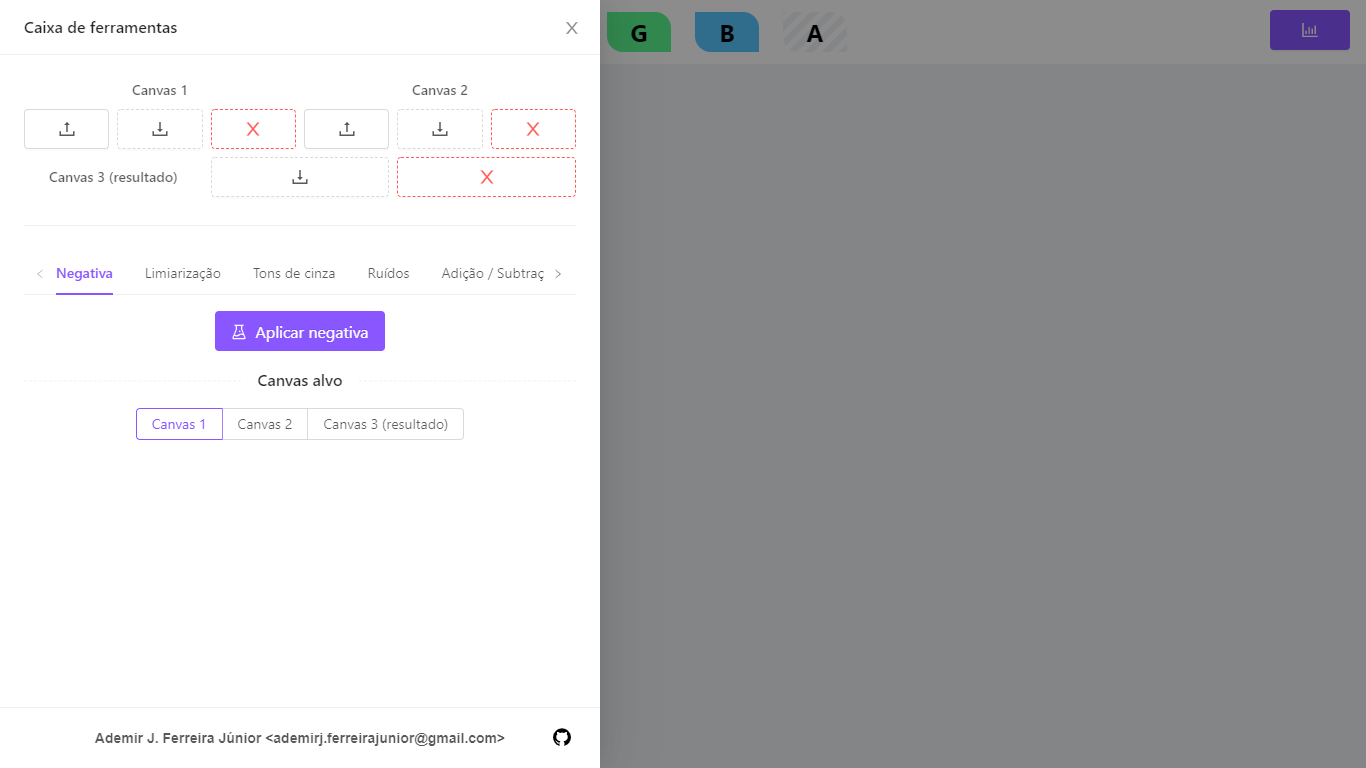
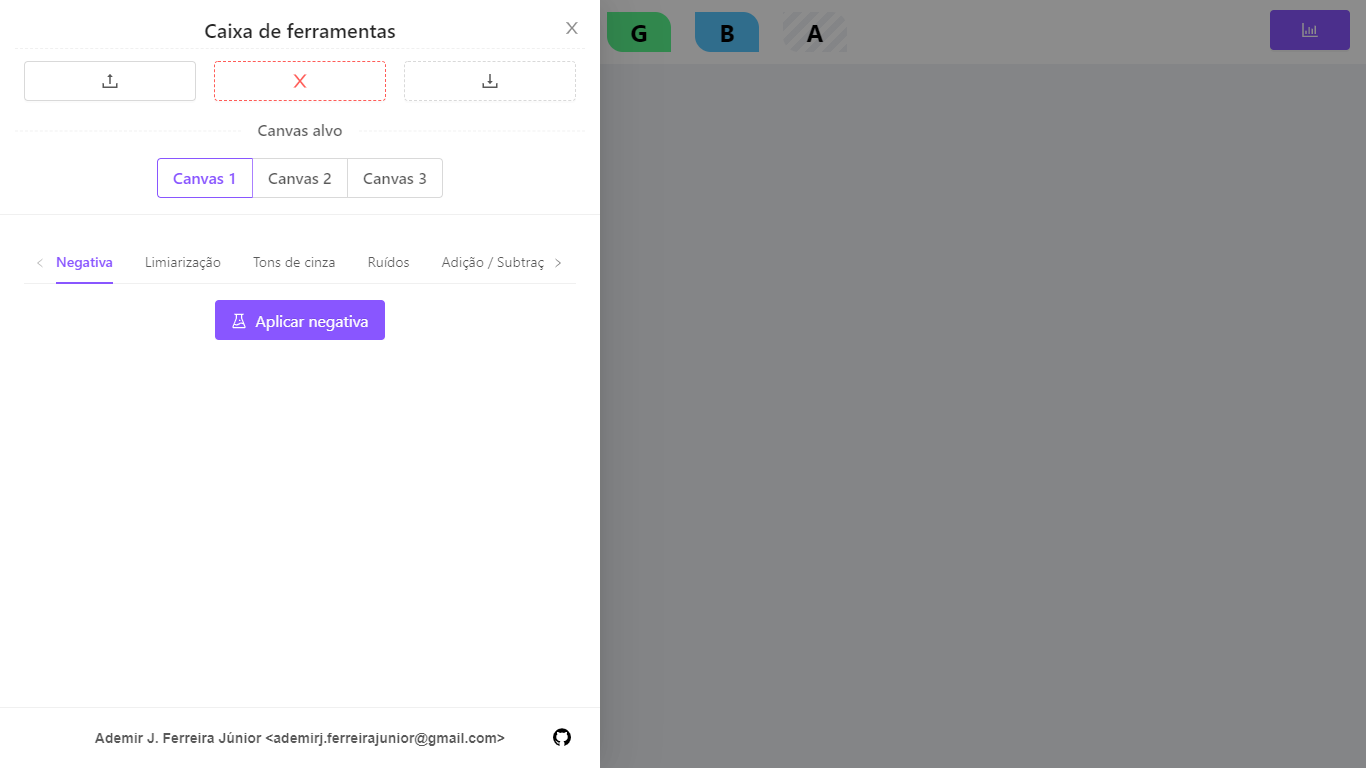
feat: add selection indicator, redesign controls

diff --git a/app/components/Toolbox.tsx b/app/components/Toolbox.tsx
@@ -12,7 +12,7 @@ import { getCanvasImage, setCanvasImage } from 'app/logic/helpers';
 import { ChallengesOptions } from 'app/logic/types';
 import * as algorithms from 'app/logic/algorithms';
 
-const { Text } = Typography;
+const { Text, Title } = Typography;
 const { TabPane } = Tabs;
 
 type Props = {
@@ -38,9 +38,11 @@ export default ({
 	challengesOptions,
 	updateChallengesOptions,
 }: Props) => {
-	const [targetCanvas, setTargetCanvas] = useState(canvas1Ref);
+	const [targetCanvasRef, setTargetCanvasRef] = useState(canvas1Ref);
 
-	const load = async ({ current: canvas }: React.MutableRefObject<HTMLCanvasElement | null>) => {
+	const load = async () => {
+		const { current: canvas } = targetCanvasRef;
+
 		if (!canvas) {
 			notification.error({ message: MESSAGES.INTERNAL_ERROR });
 			return;
@@ -92,7 +94,9 @@ export default ({
 		image.src = filePath;
 	};
 
-	const unload = async ({ current: canvas }: React.MutableRefObject<HTMLCanvasElement | null>) => {
+	const unload = async () => {
+		const { current: canvas } = targetCanvasRef;
+
 		if (!canvas) {
 			notification.error({ message: MESSAGES.INTERNAL_ERROR });
 			return;
@@ -113,7 +117,9 @@ export default ({
 		notification.success({ message: `Imagem retirada do ${canvas.dataset.title!}.` });
 	};
 
-	const download = async ({ current: canvas }: React.MutableRefObject<HTMLCanvasElement | null>) => {
+	const download = async () => {
+		const { current: canvas } = targetCanvasRef;
+
 		if (!canvas) {
 			notification.error({ message: MESSAGES.INTERNAL_ERROR });
 			return;
@@ -167,7 +173,7 @@ export default ({
 	// NEGATIVE
 
 	const canvasNegative = () => {
-		const { current: canvas } = targetCanvas;
+		const { current: canvas } = targetCanvasRef;
 		const { current: canvas3 } = canvas3Ref;
 
 		if (!canvas || !canvas3) {
@@ -190,7 +196,7 @@ export default ({
 	const [canvasThreshValue, setCanvasThreshValue] = useState(127);
 
 	const canvasThresh = () => {
-		const { current: canvas } = targetCanvas;
+		const { current: canvas } = targetCanvasRef;
 		const { current: canvas3 } = canvas3Ref;
 
 		if (!canvas || !canvas3) {
@@ -215,7 +221,7 @@ export default ({
 	const [canvasGreyscaleBWeight, setCanvasGreyscaleBWeight] = useState(100);
 
 	const canvasGreyscale = (weighted?: boolean) => {
-		const { current: canvas } = targetCanvas;
+		const { current: canvas } = targetCanvasRef;
 		const { current: canvas3 } = canvas3Ref;
 
 		if (!canvas || !canvas3) {
@@ -244,7 +250,7 @@ export default ({
 	const [canvasNoiseRemovalType, setCanvasNoiseRemovalType] = useState<'cross' | 'x' | '3x3'>('cross');
 
 	const canvasNoiseRemoval = () => {
-		const { current: canvas } = targetCanvas;
+		const { current: canvas } = targetCanvasRef;
 		const { current: canvas3 } = canvas3Ref;
 
 		if (!canvas || !canvas3) {
@@ -326,7 +332,7 @@ export default ({
 	// EQUALIZATION
 
 	const canvasEqualization = (onlyValidPixels = false) => {
-		const { current: canvas } = targetCanvas;
+		const { current: canvas } = targetCanvasRef;
 		const { current: canvas3 } = canvas3Ref;
 
 		if (!canvas || !canvas3) {
@@ -346,11 +352,66 @@ export default ({
 
 	return (
 		<Drawer
-			title="Caixa de ferramentas"
 			visible={visible}
 			onClose={onClose}
 			placement="left"
 			width={600}
+			title={
+				<Row gutter={18} justify="center" align="middle">
+					<Col>
+						<Title level={4} style={{ marginBottom: 0 }}>
+							Caixa de ferramentas
+						</Title>
+					</Col>
+
+					<Divider dashed style={{ marginTop: '4px', marginBottom: '12px' }} />
+
+					<Col span={8}>
+						<Tooltip placement="bottomLeft" title="Carregar uma imagem ao canvas.">
+							<Button size="large" icon={<UploadOutlined />} onClick={() => load()} style={{ width: '100%' }} />
+						</Tooltip>
+					</Col>
+
+					<Col span={8}>
+						<Tooltip placement="bottom" title="Retirar a imagem do canvas.">
+							<Button
+								danger
+								type="dashed"
+								size="large"
+								icon={<CloseOutlined />}
+								onClick={() => unload()}
+								style={{ width: '100%' }}
+							/>
+						</Tooltip>
+					</Col>
+
+					<Col span={8}>
+						<Tooltip placement="bottomRight" title="Salvar a imagem do canvas.">
+							<Button
+								type="dashed"
+								size="large"
+								icon={<DownloadOutlined />}
+								onClick={() => download()}
+								style={{ width: '100%' }}
+							/>
+						</Tooltip>
+					</Col>
+
+					<Divider dashed>
+						<Text strong>Canvas alvo</Text>
+					</Divider>
+
+					<Col>
+						<Radio.Group size="large" value={targetCanvasRef} onChange={(e) => setTargetCanvasRef(e.target.value)}>
+							<Radio.Button value={canvas1Ref}>Canvas 1</Radio.Button>
+							<Radio.Button value={canvas2Ref}>Canvas 2</Radio.Button>
+							<Tooltip placement="bottom" title="Este canvas guardará o resultado de qualquer rotina.">
+								<Radio.Button value={canvas3Ref}>Canvas 3</Radio.Button>
+							</Tooltip>
+						</Radio.Group>
+					</Col>
+				</Row>
+			}
 			footer={
 				<Row justify="space-between" align="middle">
 					<Col flex="auto" offset={2} style={{ fontFamily: 'sans-serif', textAlign: 'center' }}>
@@ -371,109 +432,6 @@ export default ({
 				</Row>
 			}
 		>
-			<Row gutter={[8, 8]} align="middle">
-				<Col span={12} style={{ textAlign: 'center' }}>
-					<Text strong>Canvas 1</Text>
-				</Col>
-
-				<Col span={12} style={{ textAlign: 'center' }}>
-					<Text strong>Canvas 2</Text>
-				</Col>
-
-				<Col span={4}>
-					<Tooltip placement="topLeft" title="Carregar uma imagem ao canvas.">
-						<Button size="large" icon={<UploadOutlined />} onClick={() => load(canvas1Ref)} style={{ width: '100%' }} />
-					</Tooltip>
-				</Col>
-
-				<Col span={4}>
-					<Tooltip title="Salvar a imagem do canvas.">
-						<Button
-							type="dashed"
-							size="large"
-							icon={<DownloadOutlined />}
-							onClick={() => download(canvas1Ref)}
-							style={{ width: '100%' }}
-						/>
-					</Tooltip>
-				</Col>
-
-				<Col span={4}>
-					<Tooltip placement="topRight" title="Retirar a imagem do canvas.">
-						<Button
-							danger
-							type="dashed"
-							size="large"
-							icon={<CloseOutlined />}
-							onClick={() => unload(canvas1Ref)}
-							style={{ width: '100%' }}
-						/>
-					</Tooltip>
-				</Col>
-
-				<Col span={4}>
-					<Tooltip placement="topLeft" title="Carregar uma imagem ao canvas.">
-						<Button size="large" icon={<UploadOutlined />} onClick={() => load(canvas2Ref)} style={{ width: '100%' }} />
-					</Tooltip>
-				</Col>
-
-				<Col span={4}>
-					<Tooltip title="Salvar a imagem do canvas.">
-						<Button
-							type="dashed"
-							size="large"
-							icon={<DownloadOutlined />}
-							onClick={() => download(canvas2Ref)}
-							style={{ width: '100%' }}
-						/>
-					</Tooltip>
-				</Col>
-
-				<Col span={4}>
-					<Tooltip placement="topRight" title="Retirar a imagem do canvas.">
-						<Button
-							danger
-							type="dashed"
-							size="large"
-							icon={<CloseOutlined />}
-							onClick={() => unload(canvas2Ref)}
-							style={{ width: '100%' }}
-						/>
-					</Tooltip>
-				</Col>
-
-				<Col span={8} style={{ textAlign: 'center' }}>
-					<Text strong>Canvas 3 (resultado)</Text>
-				</Col>
-
-				<Col span={8}>
-					<Tooltip placement="bottom" title="Salvar a imagem do canvas.">
-						<Button
-							type="dashed"
-							size="large"
-							icon={<DownloadOutlined />}
-							onClick={() => download(canvas3Ref)}
-							style={{ width: '100%' }}
-						/>
-					</Tooltip>
-				</Col>
-
-				<Col span={8}>
-					<Tooltip placement="bottom" title="Retirar a imagem do canvas.">
-						<Button
-							danger
-							type="dashed"
-							size="large"
-							icon={<CloseOutlined />}
-							onClick={() => unload(canvas3Ref)}
-							style={{ width: '100%' }}
-						/>
-					</Tooltip>
-				</Col>
-			</Row>
-
-			<Divider />
-
 			<Tabs defaultActiveKey="1">
 				<TabPane tab="Negativa" key="1">
 					<Row justify="center">
@@ -771,18 +729,6 @@ export default ({
 					</Row>
 				</TabPane>
 			</Tabs>
-
-			<Divider dashed>Canvas alvo</Divider>
-
-			<Row justify="center" align="middle">
-				<Col>
-					<Radio.Group value={targetCanvas} onChange={(e) => setTargetCanvas(e.target.value)}>
-						<Radio.Button value={canvas1Ref}>Canvas 1</Radio.Button>
-						<Radio.Button value={canvas2Ref}>Canvas 2</Radio.Button>
-						<Radio.Button value={canvas3Ref}>Canvas 3 (resultado)</Radio.Button>
-					</Radio.Group>
-				</Col>
-			</Row>
 		</Drawer>
 	);
 };

diff --git a/app/App.tsx b/app/App.tsx
@@ -107,6 +107,9 @@ export default () => {
 					algorithms.drawBorder(imageData, startX, startY, endX, endY, { borderColor: borderMarking.color }),
 					canvas
 				);
+			} else {
+				// draw a selection border in the selected area
+				setCanvasImage(algorithms.drawBorder(imageData, startX, startY, endX, endY), canvas);
 			}
 		}
 	};
